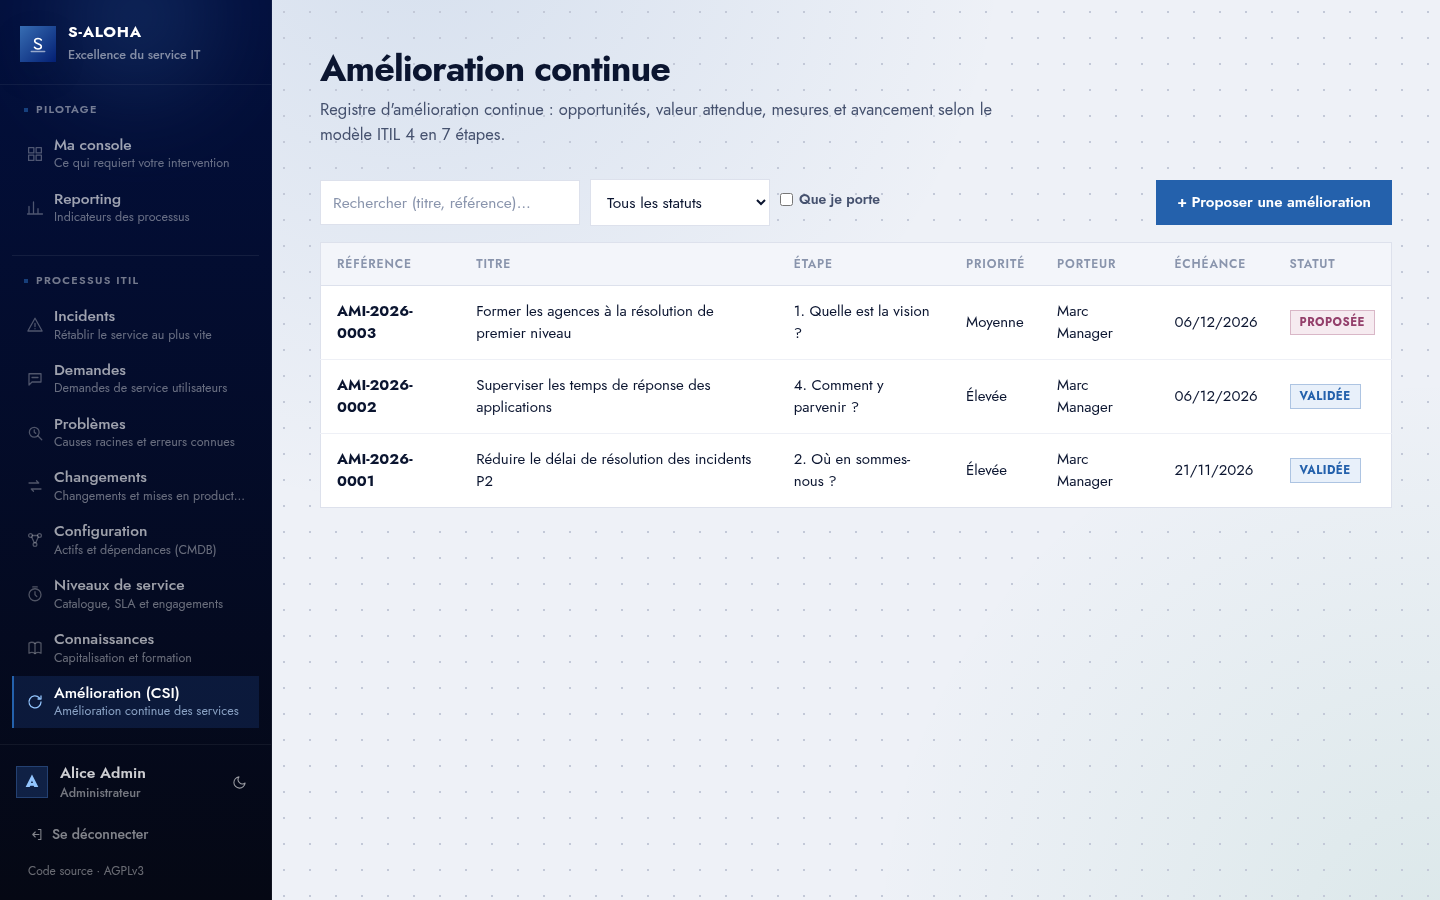
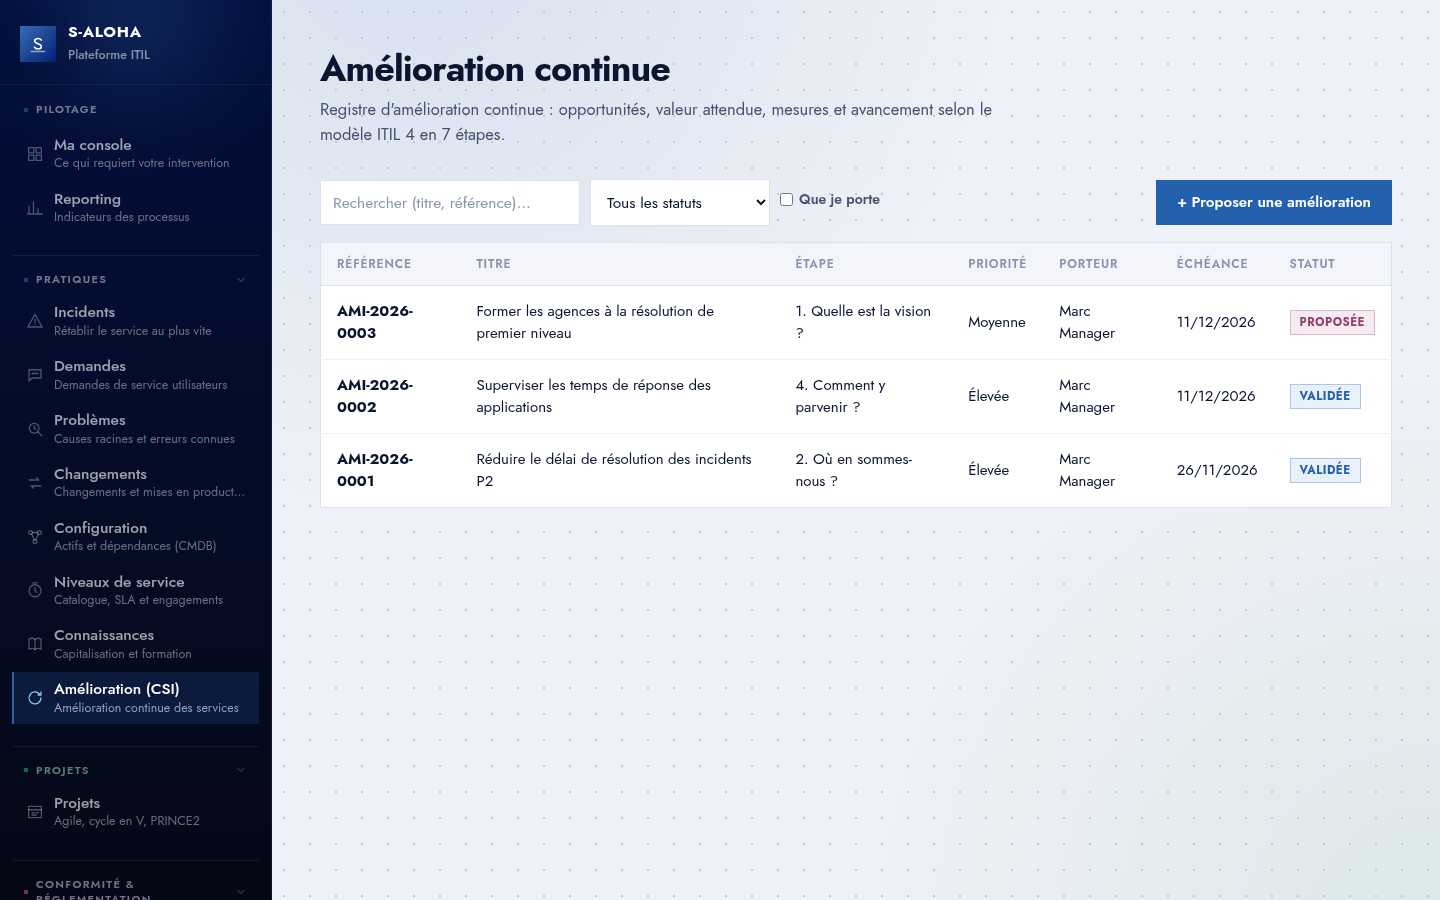
Captures d'écran régénérées, projets et conformité NIS 2 dans la galerie

diff --git a/docs/archives/journal-2026-10-13.md b/docs/archives/journal-2026-10-13.md
@@ -124,3 +124,25 @@
 - **Documentation** : règles métier § 8, règles des pratiques (§ 6), frontend, architecture,
   base de données, plan d'action, `CHANGELOG.md`.
 - **Commit** : branche `soc-21-notifications`.
+
+---
+
+## Captures d'écran régénérées
+
+- **Quoi** : les 16 captures de `docs/screenshots/` refaites sur l'interface actuelle
+  (navigation en sections, reporting à onglets, fiches à jour), plus deux nouvelles :
+  `17-projet-scrum.png` (tableau du sprint d'un projet Scrum) et `18-conformite-nis2.png`
+  (synthèse d'une évaluation NIS 2). La galerie du README les affiche. Le registre des
+  incidents est pris filtré sur « En cours ».
+- **Pourquoi** : les captures dataient du 2026-10-07 ; l'interface a changé depuis
+  (périmètres, reporting, projets, conformité).
+- **Comment** : instance chargée avec le mode démonstration, navigateur sans tête en
+  1440 × 900, thème clair ; chaque page est refusée si son texte contient un enregistrement
+  de test ou une adresse interne.
+- **Mode démonstration** : l'incident majeur des données d'exemple est désormais déclaré par
+  le gestionnaire (règle INC-13), sinon le chargement s'arrêtait sur un refus 400.
+- **Fichiers** : `docs/screenshots/*`, `README.md`, `demo/donnees/charger.py`,
+  `docs/protocole-documentation.md` (§ 2 : conditions des captures).
+- **Commit** : branche `captures-1012`.
+
+---

diff --git a/README.md b/README.md
@@ -124,6 +124,10 @@ un changement, un changement touche des CI.
     <td><img src="docs/screenshots/14-connaissances.png" alt="Base de connaissances" /><br/><b>Connaissances</b> — solutions, procédures, erreurs connues</td>
     <td><img src="docs/screenshots/15-amelioration-continue.png" alt="Amélioration continue" /><br/><b>Amélioration continue</b> — registre et modèle ITIL 4 en 7 étapes</td>
   </tr>
+  <tr>
+    <td><img src="docs/screenshots/17-projet-scrum.png" alt="Projet Scrum" /><br/><b>Projets</b> — Scrum, cycle en V, PRINCE2 : backlog, sprints, tableau</td>
+    <td><img src="docs/screenshots/18-conformite-nis2.png" alt="Conformité NIS 2" /><br/><b>Conformité NIS 2</b> — évaluation, score, maturité et écarts par objectif</td>
+  </tr>
 </table>
 
 ## Essayer en 5 minutes

diff --git a/docs/protocole-documentation.md b/docs/protocole-documentation.md
@@ -50,7 +50,9 @@ Chaque changement est replié dans le document de [`reference/`](reference/) con
 | Décision structurante actée | nouvel ADR dans [`decisions/`](decisions/readme.md) |
 
 Une interface modifiée rend les **captures d'écran** obsolètes : les régénérer
-(`docs/screenshots/`, mêmes noms de fichiers).
+(`docs/screenshots/`, mêmes noms de fichiers) depuis une instance chargée avec les données
+du mode démonstration, sans enregistrement de test, trou de numérotation ni adresse interne
+visible.
 
 ## 3. Journaliser les sujets traités
 
